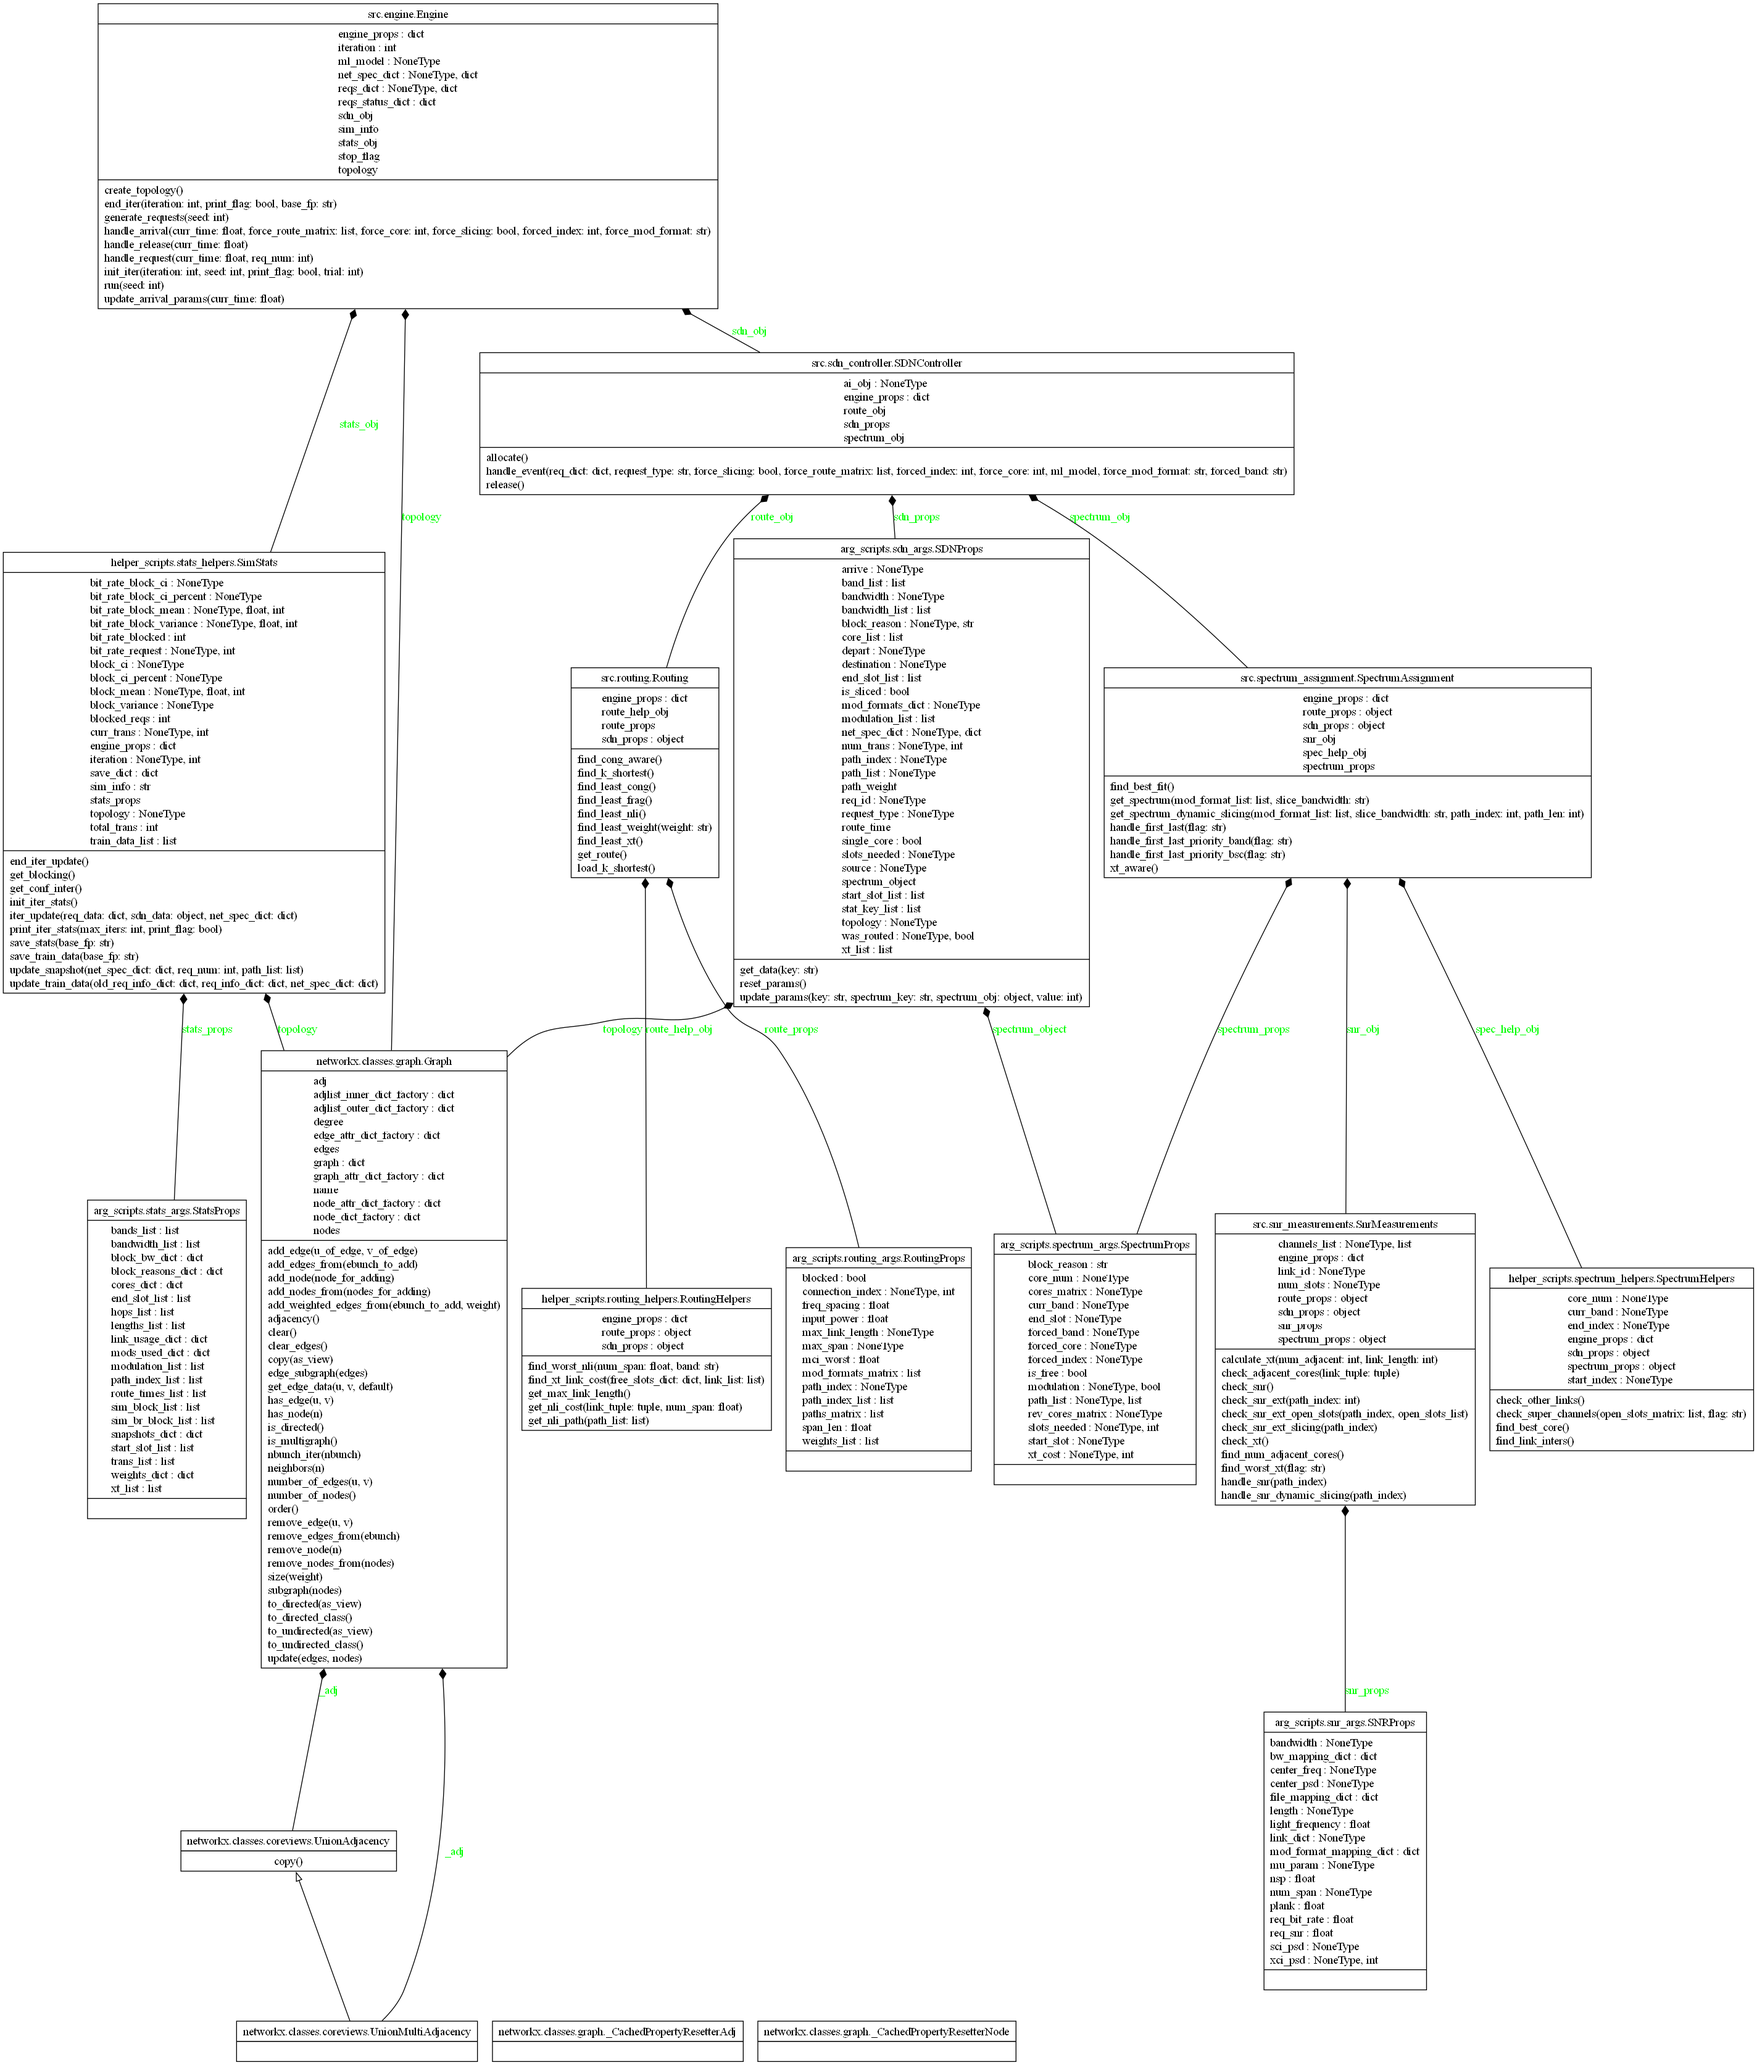
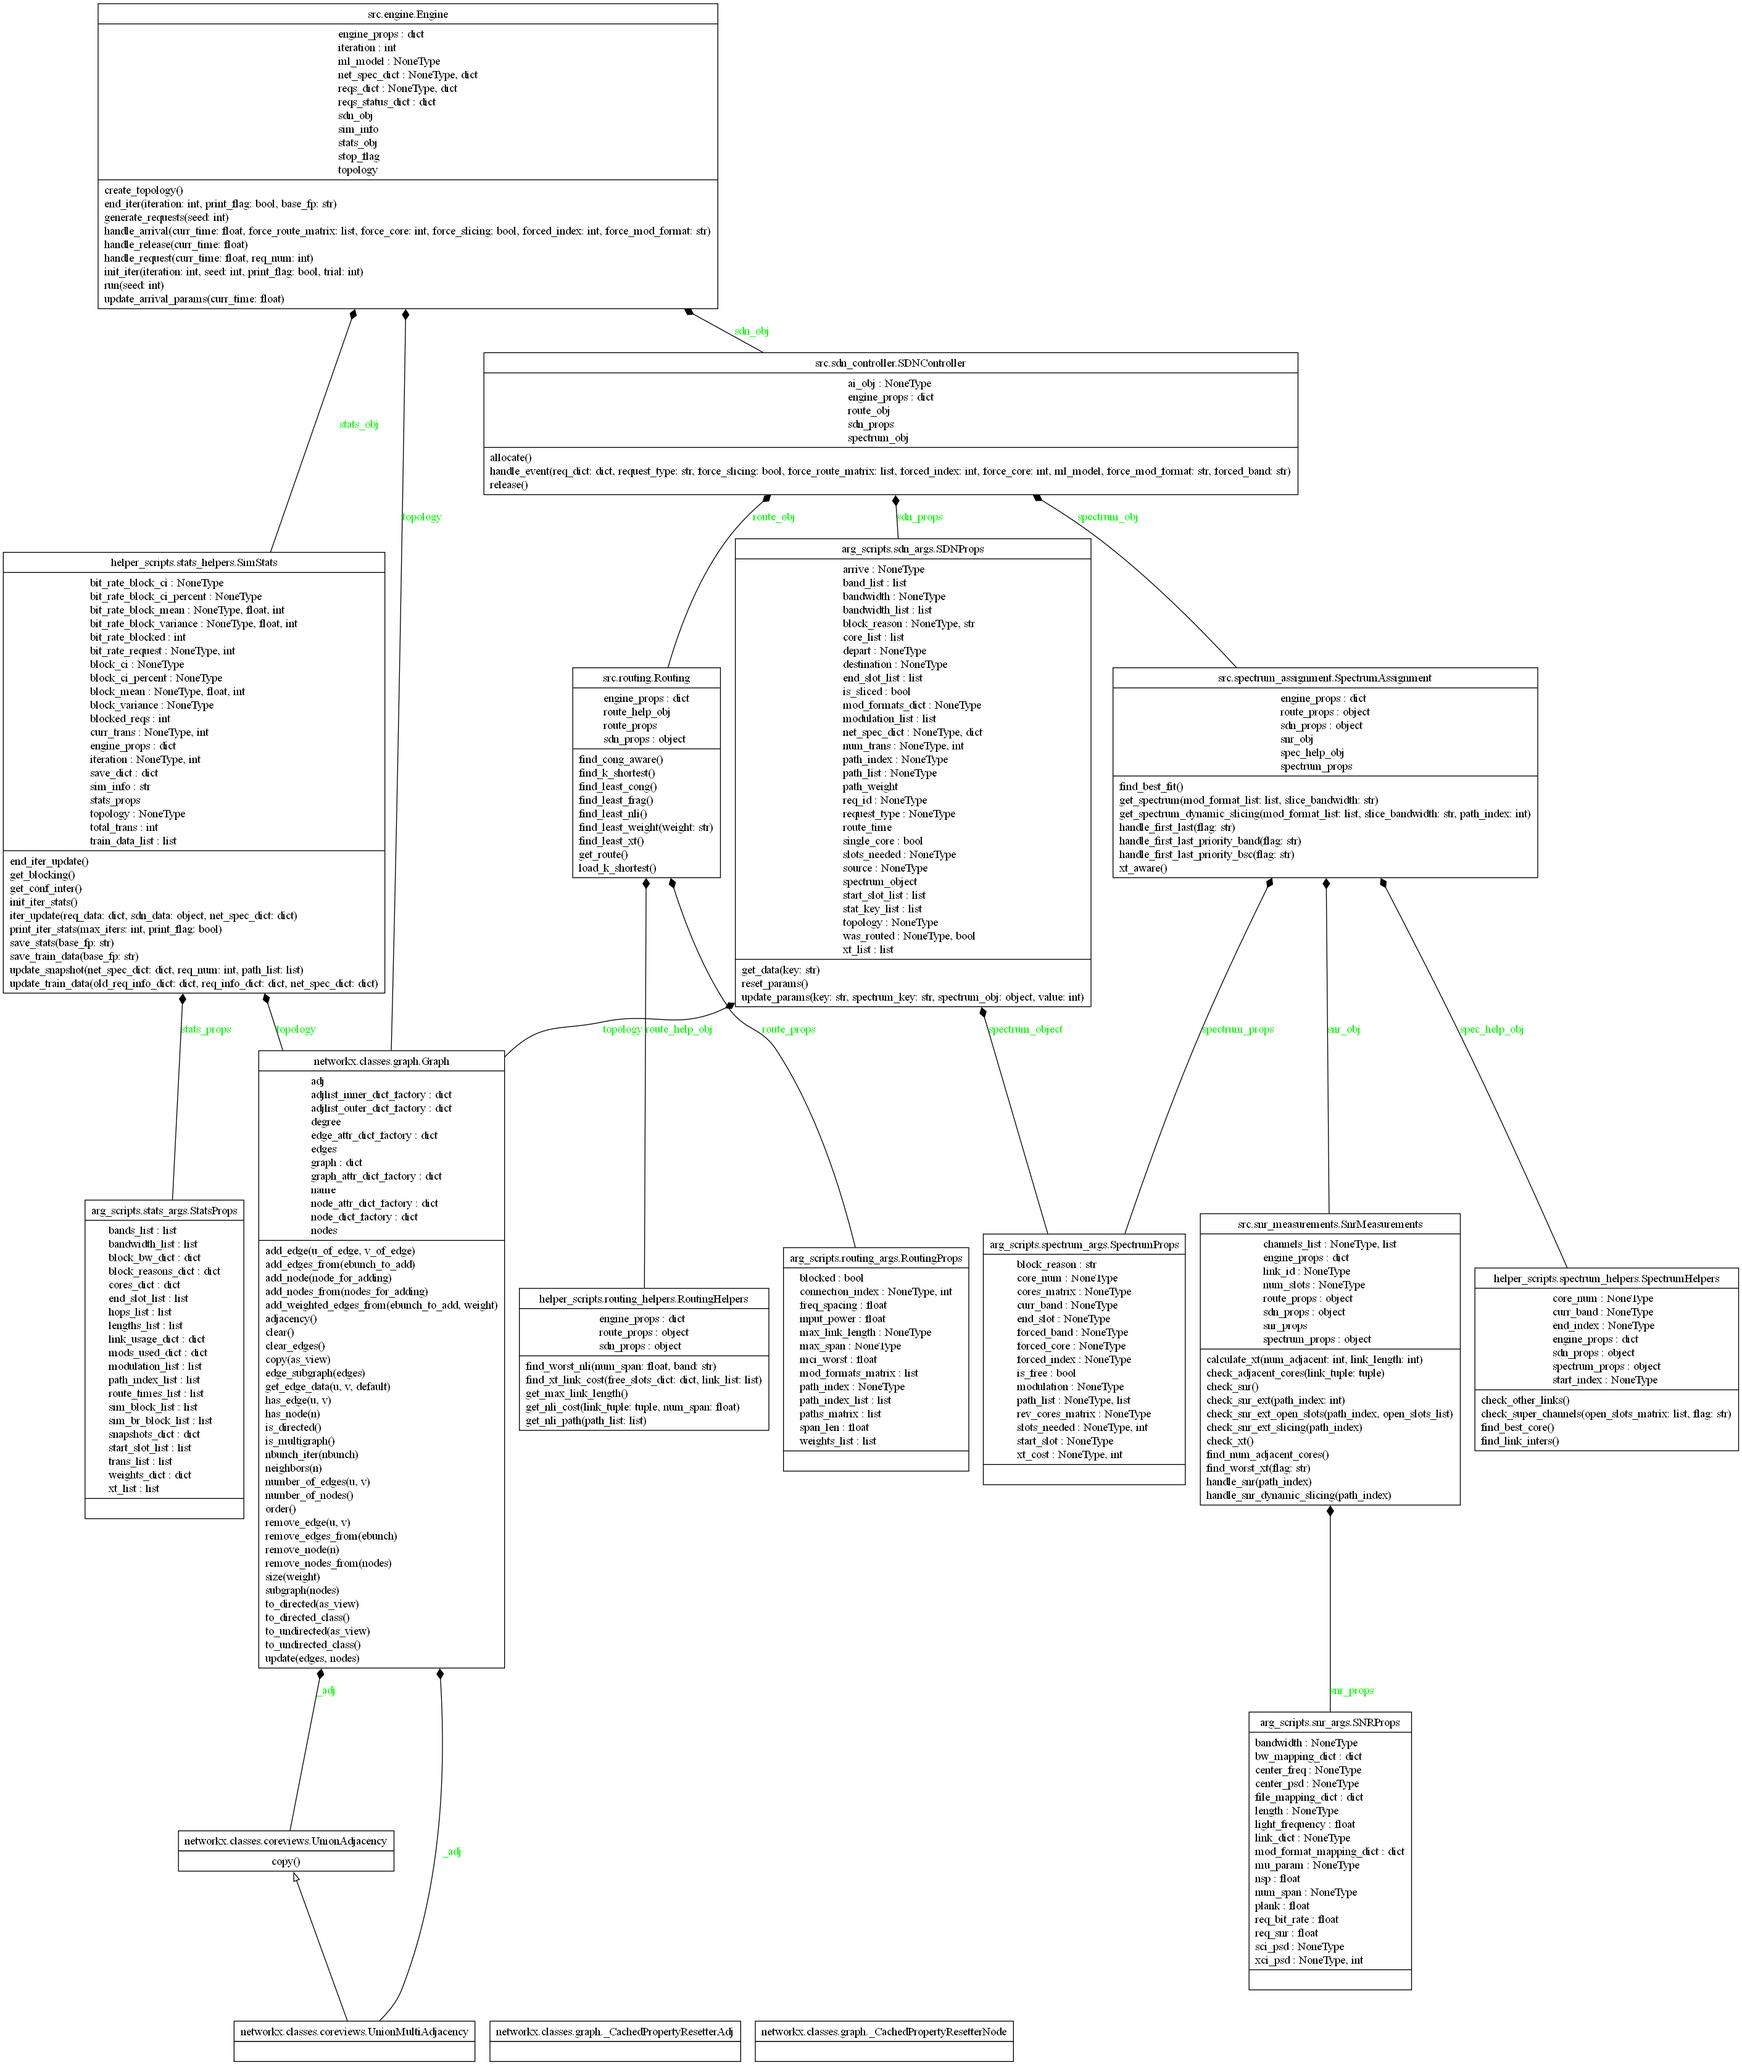
[FEATURE] Created diagram generation bash script and added documentation to pylint.rst

diff --git a/docs/github/pylint.rst b/docs/github/pylint.rst
@@ -1,5 +1,5 @@
-Pylint
-======
+Pylint & UML Diagram Generation
+=================================
 
 Our Pylint pipeline plays a crucial role in ensuring the consistency and long-term health of our simulator's code.
 It automatically examines our Python code, flagging potential stylistic inconsistencies, enforcing best practices,
@@ -16,3 +16,22 @@ To ensure that our code adheres to the established quality standards, our Pylint
 * In this example, `./.pylintrc` assumes the configuration file is in the same directory you're running the command. Adjust the path if your `.pylintrc` file is located elsewhere.
 
 For more information on PEP 8 coding style guidelines, see `this resource <https://peps.python.org/pep-0008/>`_.
+
+High Level UML Diagram Generation
+----------------------------------
+Pylint's Pyreverse is recommended for the automatic generation of UML Class diagrams for packages.
+
+The following Pyreverse command is ran in bash script. `$OUTPUT_DIR` is set to a folder named class_diagram_output, and `$MODULE` is a list of packages in the project.
+
+.. code-block:: bash
+   
+   pyreverse -ASmy "$MODULE" -o png -p "${MODULE}" -d "$OUTPUT_DIR"  
+
+Graphviz is required for the script to function. Pyreverse alone cannot output formats other than .puml, .dot, .mmd. 
+
+`Graphviz installation <https://graphviz.org/download/>`_.
+
+`Pyreverse usage guide <https://pylint.readthedocs.io/en/latest/additional_tools/pyreverse/configuration.html>`_.
+
+After installing Graphviz, the script `auto-diagram` can be run to generate UML diagrams for the modules set in `$MODULE`.
+
